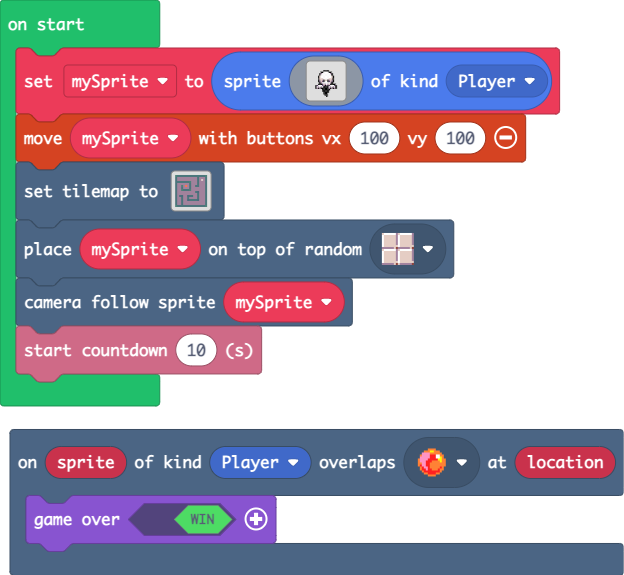
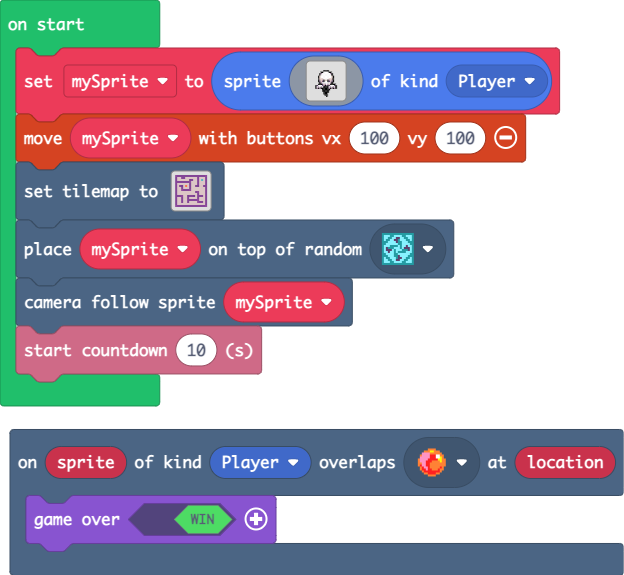
re-designed the map

Changed region(s): [[0.609, 0.3843, 0.6699, 0.473], [0.274, 0.2957, 0.3349, 0.3843]]

diff --git a/main.ts b/main.ts
@@ -28,7 +28,7 @@ let mySprite = sprites.create(img`
     ............f...........
     `, SpriteKind.Player)
 controller.moveSprite(mySprite, 100, 100)
[2 lines of base64/hex data omitted]
     . . . . . . . . . . . . . . . . 
     . . . . . . . . . . . . . . . . 
     . . . . . . . . . . . . . . . . 
@@ -45,7 +45,7 @@ tiles.setTilemap(tiles.createTilemap(hex`100010000209090909090909090909090909090
     . . . . . . . . . . . . . . . . 
     . . . . . . . . . . . . . . . . 
     . . . . . . . . . . . . . . . . 
-    `, [myTiles.transparency16,sprites.dungeon.floorDark0,sprites.dungeon.greenOuterNorthWest,sprites.dungeon.greenOuterNorthEast,sprites.dungeon.greenOuterSouthWest,sprites.dungeon.greenOuterSouthEast,sprites.dungeon.greenOuterWest1,sprites.dungeon.greenOuterSouth0,sprites.dungeon.greenOuterEast0,sprites.dungeon.greenOuterNorth0,sprites.dungeon.collectibleRedCrystal,sprites.dungeon.greenInnerSouthEast,sprites.dungeon.greenInnerSouthWest,sprites.dungeon.greenInnerNorthWest,sprites.dungeon.greenInnerNorthEast,sprites.dungeon.floorLight0], TileScale.Sixteen))
-tiles.placeOnRandomTile(mySprite, sprites.dungeon.floorLight0)
+    `, [myTiles.transparency16,sprites.dungeon.collectibleRedCrystal,sprites.dungeon.collectibleInsignia,sprites.dungeon.floorLight0,sprites.dungeon.purpleOuterNorthEast,sprites.dungeon.purpleOuterSouthEast,sprites.dungeon.purpleOuterNorthWest,sprites.dungeon.purpleOuterSouthWest,sprites.dungeon.purpleOuterSouth1,sprites.dungeon.purpleOuterWest1,sprites.dungeon.purpleOuterNorth1,sprites.dungeon.purpleOuterEast0,sprites.dungeon.purpleInnerNorthEast,sprites.dungeon.purpleInnerNorthWest,sprites.dungeon.purpleOuterWest0,sprites.dungeon.purpleInnerSouthEast,sprites.dungeon.floorLight4], TileScale.Sixteen))
+tiles.placeOnRandomTile(mySprite, sprites.dungeon.collectibleInsignia)
 scene.cameraFollowSprite(mySprite)
 info.startCountdown(10)
